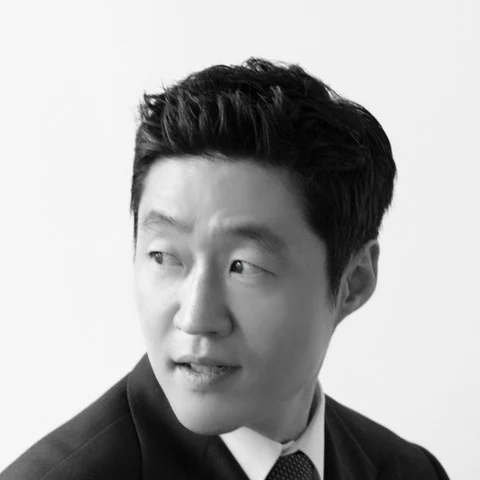
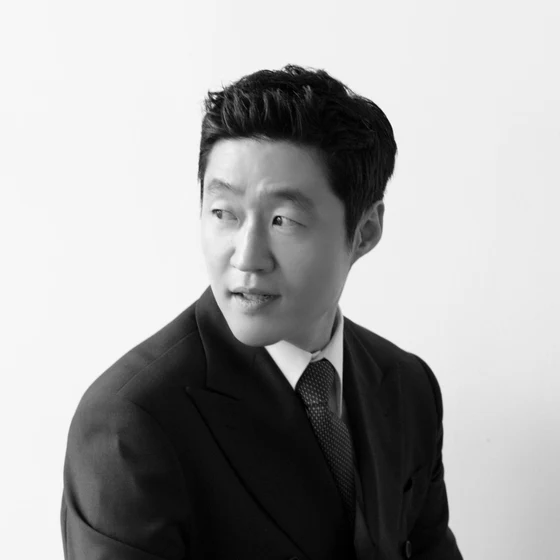
디렉터 페이지 시안: 디렉터를 맨 앞으로(원형 사진·이름·25만원 면제), 순서 재구성·길이 축소
Claude-Session: https://claude.ai/code/session_01AK1nvLUVWxd12Ns9kLYVVR

diff --git a/d/index.html b/d/index.html
@@ -12,6 +12,18 @@
 <link rel="stylesheet" href="https://cdn.jsdelivr.net/gh/orioncactus/pretendard@v1.3.9/dist/web/variable/pretendardvariable-dynamic-subset.min.css">
 <link rel="stylesheet" href="/go/go.css">
 <style>
+.dh{padding-top:26px;text-align:center}
+.dh-p{width:176px;height:176px;margin:0 auto 22px;position:relative}
+.dh-p .dc-m{width:176px;height:176px;font-size:64px}
+.dh-p img{width:176px;height:176px;border-radius:50%;object-fit:cover;display:block;box-shadow:0 0 0 3px var(--paper),0 0 0 5px #C29A4A,0 26px 44px -22px rgba(21,23,28,.55)}
+.dh-n{margin-top:10px;display:flex;justify-content:center;align-items:baseline;gap:10px}
+.dh-n b{font-size:34px;font-weight:800;letter-spacing:-.03em}
+.dh-n span{font-size:15px;font-weight:700;color:var(--gold)}
+.dh h1{margin-top:14px;font-size:24px;line-height:1.4}
+.dh .w-bar{margin-top:24px}
+.dcard{margin-top:26px!important;padding-top:0!important}
+.dcard .dx{margin-top:0;padding-top:22px;box-shadow:0 20px 40px -26px rgba(21,23,28,.4);border:1px solid var(--line)}
+.dcard .dx blockquote{margin-top:16px;padding-top:18px}
 .dx{margin-top:30px;padding:30px 24px 22px;border-radius:24px;background:linear-gradient(180deg,#FBF9F4,#F1ECE0);color:var(--ink);text-align:center;box-shadow:0 24px 44px -22px rgba(0,0,0,.8)}
 .dx-p{position:relative;width:112px;height:112px;margin:0 auto}
 .dx-p .dc-m{width:112px;height:112px;font-size:44px}
@@ -68,34 +80,25 @@ body:not(.open) #coachBtn{display:none}body.open #chBtn2{display:none}
 <div class="wrap">
   <div class="top"><b>MAKESBETTER</b><span>가입비 없음</span></div>
   <main id="A" class="w">
-    <!-- 대표 카드 (상품 머리) -->
-    <section class="w-hero">
-      <div class="w-ph rvl"><img src="/go/img/ph-ask.webp" alt=""><span class="w-bd"><span data-d="name">이종호</span> 디렉터의 초대</span></div>
+    <section class="w-hero dh">
+      <div class="dh-p rvl" data-d="photo"><span class="dc-m" data-d="mono">이</span></div>
       <div class="kick rvl">MAKESBETTER DIRECTOR</div>
-      <h1 class="rvl"><span data-d="name">이종호</span> <span data-d="role">대표 디렉터</span>와<br>1:1 금융 코칭 2시간<br>+ 선물 3가지</h1>
+      <p class="dh-n rvl"><b data-d="name">이종호</b><span data-d="role">대표 디렉터</span></p>
+      <h1 class="rvl">1:1 금융 코칭 2시간<br>+ 선물 3가지</h1>
+      <div class="w-bar rvl"><span>1:1 코칭 2시간</span><b class="fee"><s>25만원</s><i>면제</i></b></div>
       <ul class="w-st rvl">
         <li><b>946<small>건</small></b><span>고객 후기</span></li>
         <li><b><i id="cnt2">1,347</i><small>명</small></b><span>현금흐름 진단</span></li>
         <li><b>100<small>장</small></b><span>코칭권 한정</span></li>
       </ul>
-      <div class="w-bar rvl"><span>1:1 코칭 2시간</span><b class="fee"><s>25만원</s><i>면제</i></b></div>
     </section>
 
-    <!-- 편지 -->
-    <section class="w-sec w-letter">
-      <p class="w-q rvl">“</p>
-      <h2 class="rvl">우리에게 매직은<br>필요 없습니다.</h2>
-      <p class="l-who rvl">당신의 <em>답변</em>, 그걸로 충분합니다.</p>
-      <p class="l-why rvl">No magic. Just common sense.<br>현실의 언어로, 당신의 돈 이야기를 함께 봅니다.</p>
-    </section>
-
-    <!-- 공감 -->
-    <section class="w-sec c-q"><div class="q-bg" aria-hidden="true"></div>
-      <p class="q-k rvl">혹시 이런 생각, 해 본 적 있나요?</p>
-      <h2 class="rvl">내가 일을 멈추면,<br>돈도 같이 <em>멈출까요?</em></h2>
-      <p class="q-s rvl">월급날은 한 달에 한 번인데,<br>돈 걱정은 매일이니까요.</p>
-      <div class="qa rvl" id="qa"><button type="button" data-a="1">네, 멈춰요</button><button type="button" data-a="2">조금은 들어와요</button></div>
-      <p class="qa-r" id="qaR" aria-live="polite"></p>
+    <section class="w-sec dcard">
+      <article class="dx rvl">
+        <ul class="dx-c" data-d="career"><li class="dx-todo">경력 한 줄 자리 (받으면 교체)</li><li class="dx-todo">전문 분야 자리</li></ul>
+        <blockquote data-d="quote"></blockquote>
+        <a data-d="rv" href="https://mbkr.my/review" target="_blank" rel="noopener"><span data-d="rvwho"></span>후기 읽기 →</a>
+      </article>
     </section>
 
     <section class="w-sec w-for">
@@ -111,22 +114,6 @@ body:not(.open) #coachBtn{display:none}body.open #chBtn2{display:none}
       </ul>
     </section>
 
-    <!-- POINT 01 사람 -->
-    <section class="w-sec w-dark c-c">
-      <span class="w-pt gold rvl">POINT 01 · 사람</span>
-      <h2 class="rvl">이 코칭의 가장 큰 선물은<br><em>사람</em>이에요.</h2>
-      <p class="c-s rvl"><b><span data-d="name">이종호</span> <span data-d="role">대표 디렉터</span></b>가<br>2시간 동안 <b>당신 한 사람</b>의 돈만 봅니다.</p>
-      <article class="dx rvl">
-        <div class="dx-p"><span class="dc-m" data-d="mono">이</span><i class="dx-todo">사진 자리</i></div>
-        <b class="dx-n"><span data-d="name">이종호</span></b>
-        <small class="dx-r"><span data-d="role">대표 디렉터</span> · MAKESBETTER</small>
-        <ul class="dx-c" data-d="career"><li class="dx-todo">경력 한 줄 자리 (받으면 교체)</li><li class="dx-todo">전문 분야 자리</li><li class="dx-todo">함께한 고객 수·기간 자리</li></ul>
-        <blockquote data-d="quote">“대표님을 만나지 않았다면 금전적으로 빚 걱정, 미래 걱정이 없는 저는 없었을 거 같았습니다. 늘 감사합니다!”</blockquote>
-        <a data-d="rv" href="https://mbkr.my/review/?bmode=view&idx=174960813" target="_blank" rel="noopener"><span data-d="rvwho">5년째 함께한 고객</span>후기 읽기 →</a>
-      </article>
-    </section>
-
-    <!-- POINT 02 방법 -->
     <section class="w-sec w-how">
       <span class="w-pt rvl">POINT 02 · 방법</span>
       <h2 class="rvl">2시간이면<br>내 돈의 <mark>지도</mark>가 그려져요.</h2>
@@ -141,45 +128,6 @@ body:not(.open) #coachBtn{display:none}body.open #chBtn2{display:none}
       </div>
     </section>
 
-    <!-- POINT 03 증거 -->
-    <section class="w-sec c-p">
-      <span class="w-pt rvl">POINT 03 · 코칭 이후</span>
-      <h2 class="rvl">코칭이 끝나도,<br><mark>매달 함께</mark> 관리해요.</h2>
-      <p class="a-s rvl">흐름을 잡은 다음 단계는 일을 쉬어도 매달 들어오는 돈, 월배당이에요. 메이크스베러가 실제 계좌로 먼저 보여 드려요.</p>
-      <div class="pf rvl">
-        <small>메이크스베러가 매달 공개하는 실제 계좌 · 2026년 10월<br>계좌 4개 합산 · 실수령액 기준</small>
-        <div class="pf-n"><b id="amt" data-v="3643944">3,643,944</b><span>원</span></div>
-        <div class="pf-m"><div><i style="height:100%"></i><span>7월</span></div><div><i style="height:88%"></i><span>8월</span></div><div><i style="height:89%"></i><span>9월</span></div><div class="on"><i style="height:89.5%"></i><span>10월</span></div></div>
-        <p>포트폴리오 수익률이 <b>−4.8%</b>였던 달에도, 입금은 9월보다 <b>15,344원</b> 늘었어요.</p>
-      </div>
-      <div class="how rvl">
-        <div class="how-h"><span>어떻게요?</span><b>11개 ETF를 4개 역할로 나눈 포트폴리오, Better.7</b></div>
-        <div class="b7-bar"><i style="flex:50;background:#15171C"></i><i style="flex:15;background:#B08A3E"></i><i style="flex:10;background:#8C8577"></i><i style="flex:25;background:#D9D3C5"></i></div>
-        <ul class="b7-r">
-          <li><em style="background:#15171C"></em><div><b>Income Core</b><span>매달 분배금을 만드는 역할</span></div><strong>50%</strong></li>
-          <li><em style="background:#B08A3E"></em><div><b>Growth Engine</b><span>AI·로봇으로 성장을 더하는 역할</span></div><strong>15%</strong></li>
-          <li><em style="background:#8C8577"></em><div><b>Defense</b><span>금·장기채로 흔들림을 줄이는 역할</span></div><strong>10%</strong></li>
-          <li><em style="background:#D9D3C5"></em><div><b>Cash</b><span>단기채·MMF로 기회를 기다리는 역할</span></div><strong>25%</strong></li>
-        </ul>
-        <p class="how-l"><svg viewBox="0 0 24 24" width="14" height="14" fill="none" stroke="currentColor" stroke-width="2.2" stroke-linecap="round"><rect x="5" y="11" width="14" height="10" rx="2"/><path d="M8 11V8a4 4 0 0 1 8 0v3"/></svg>11개 종목과 이번 달 방향은 코칭 이후 채널에서 함께 봐요</p>
-      </div>
-      <p class="dis rvl">실제 사례를 그대로 공개한 자료이며, 수익을 보장하거나 투자를 권유하는 내용이 아니에요. 분배금은 달마다 달라지고, 투자 원금은 손실이 날 수 있어요.</p>
-      <p class="c-t2 rvl">코칭 이후, 이렇게 관리받아요</p>
-      <a class="pl rvl" href="https://mbkr.my/report" target="_blank" rel="noopener"><img src="/go/img/report.webp" alt=""><div><b>월배당 리포트</b><span>매달 실제 계좌를 그대로 공개</span></div><i>보기</i></a>
-      <a class="pl rvl" href="https://calc.makesbetter.co.kr/studio" target="_blank" rel="noopener"><img src="/go/img/studio.webp" alt=""><div><b>MAKESBETTER Studio</b><span>24개 지표로 정한 이번 달 매수 방향</span></div><i>보기</i></a>
-      <a class="pl rvl" href="https://report.makesbetter.co.kr/check" target="_blank" rel="noopener"><span class="pl-ic">✓</span><div><b>내 포트폴리오 무료 점검</b><span>배당 화면 캡처만 보내면 1:1 분석</span></div><i>보기</i></a>
-      <a class="btn mid rvl" href="#gifts">여기까지 보고 바로 선물 받기</a>
-    </section>
-
-    <!-- 묻고 답하기 + 후기 -->
-    <section class="w-sec w-dark c-c">
-      <span class="w-pt gold rvl">REAL REVIEW</span>
-      <h2 class="rvl">코칭에서 가장 많이 묻는 것,<br>그리고 <em>먼저 받은 분들의 이야기</em></h2>
-      <div class="nds rvl"><details class="nd" open><summary><span>Q1</span><b class="ndq">“어디서부터 시작하죠?”</b></summary><div class="nd-b"><p class="nd-a"><b>디렉터의 답</b>소득·고정지출·변동지출·저축, 네 칸으로 지금 내 돈의 흐름부터 같이 그려요. 시작점이 보이면 다음 한 걸음이 정해져요.</p><a class="nd-r" href="https://mbkr.my/review/?bmode=view&idx=171849709" target="_blank" rel="noopener"><em>같은 고민을 했던 분</em>“어디서부터 어떻게 시작해야 할지 몰라서 맨땅에 헤딩하는 기분이었어요.”<span>후기 전체 읽기 →</span></a></div></details><details class="nd"><summary><span>Q2</span><b class="ndq">“돈이 왜 안 모일까요?”</b></summary><div class="nd-b"><p class="nd-a"><b>디렉터의 답</b>고정지출·생활비·저축으로 통장을 나누고, 모으는 순서를 정해요. 아끼라는 말 대신 구조를 바꿔요.</p><a class="nd-r" href="https://mbkr.my/review/?bmode=view&idx=175530941" target="_blank" rel="noopener"><em>같은 고민을 했던 분</em>“버는 대로 쓰던 제가 하나하나 나눠서 돈을 모으는 습관을 만들게 됐어요.”<span>후기 전체 읽기 →</span></a></div></details><details class="nd"><summary><span>Q3</span><b class="ndq">“예·적금만 해도 될까요?”</b></summary><div class="nd-b"><p class="nd-a"><b>디렉터의 답</b>예금·투자·연금·보험, 가진 자산을 한눈에 놓고 평가해요. 그다음 나눠서 모으는 방법을 내 상황에 맞게 차근차근 경험해요.</p><a class="nd-r" href="https://mbkr.my/review/?bmode=view&idx=175279693" target="_blank" rel="noopener"><em>같은 고민을 했던 분</em>“예·적금밖에 모르던 저에게 새로운 세계가 열린 것 같았어요.”<span>후기 전체 읽기 →</span></a></div></details><details class="nd"><summary><span>Q4</span><b class="ndq">“빚이 있는데 투자해도 될까요?”</b></summary><div class="nd-b"><p class="nd-a"><b>디렉터의 답</b>현금흐름부터 잡아요. 갚는 것과 모으는 것의 순서를 함께 정하고, 여유가 생긴 만큼만 다음 단계로 가요.</p><a class="nd-r" href="https://mbkr.my/review/?bmode=view&idx=174960813" target="_blank" rel="noopener"><em>같은 고민을 했던 분</em>“현금 흐름부터 잡아서 매달 모으는 돈을 늘렸고, 그렇게 투자금이 생겼어요.”<span>후기 전체 읽기 →</span></a></div></details><details class="nd"><summary><span>Q5</span><b class="ndq">“투자 손실이 겁나요”</b></summary><div class="nd-b"><p class="nd-a"><b>디렉터의 답</b>먼저 권하지 않아요. 내가 감당할 수 있는 범위와 나만의 기준부터 세우고, 흔들릴 때 물어볼 사람이 되어 드려요.</p><a class="nd-r" href="https://mbkr.my/review/?bmode=view&idx=173082766" target="_blank" rel="noopener"><em>같은 고민을 했던 분</em>“손해를 본 경험 때문에 돈을 꽁꽁 묶어 두기만 했던 저에게 길잡이가 되어 주셨어요.”<span>후기 전체 읽기 →</span></a></div></details><details class="nd"><summary><span>Q6</span><b class="ndq">“노후 준비, 괜찮을까요?”</b></summary><div class="nd-b"><p class="nd-a"><b>디렉터의 답</b>연금과 보유 자산을 점검하고, 일을 쉬어도 매달 들어오는 흐름으로 바꾸는 길을 같이 찾아요.</p><a class="nd-r" href="https://mbkr.my/review/?bmode=view&idx=171831872" target="_blank" rel="noopener"><em>같은 고민을 했던 분</em>“막연히 괜찮겠지 했는데, 노후를 처음으로 현실적으로 생각해 보게 됐어요.”<span>후기 전체 읽기 →</span></a></div></details></div>
-      <a class="more rvl" href="https://mbkr.my/review" target="_blank" rel="noopener">후기 946건 모두 보기 →</a>
-    </section>
-
-    <!-- 리워드 구성 -->
     <section class="w-sec c-g" id="gifts">
       <span class="w-pt rvl">지금 받을 수 있는 것</span>
       <h2 class="rvl" id="giftH">채널을 추가하면<br>선물 4가지가 열려요.</h2>
@@ -197,7 +145,31 @@ body:not(.open) #coachBtn{display:none}body.open #chBtn2{display:none}
       <a class="w-rw best rvl" data-d="coach" href="/coaching/?d=이종호"><span class="w-rn">가장 큰 선물</span><b><span data-d="name">이종호</span> 디렉터 1:1 코칭 2시간</b><p>현금흐름 점검 · 보유자산 평가 · 돈 모으는 툴</p><div class="w-rf"><span class="lk" aria-hidden="true"><svg viewBox="0 0 24 24" fill="none" stroke="currentColor" stroke-width="2.2" stroke-linecap="round"><rect x="5" y="11" width="14" height="10" rx="2"/><path class="sh" d="M8 11V8a4 4 0 0 1 8 0v3"/></svg>채널 추가 후 열려요</span><span>신청하면 디렉터가 직접 연락</span><em>신청하기</em></div></a>
     </section>
 
-    <!-- 진행 순서 · 자주 묻는 질문 -->
+    <section class="w-sec c-p">
+      <span class="w-pt rvl">POINT 03 · 코칭 이후</span>
+      <h2 class="rvl">코칭이 끝나도,<br><mark>매달 함께</mark> 관리해요.</h2>
+      <p class="a-s rvl">흐름을 잡은 다음 단계는 일을 쉬어도 매달 들어오는 돈, 월배당이에요. 메이크스베러가 실제 계좌로 먼저 보여 드려요.</p>
+      <div class="pf rvl">
+        <small>메이크스베러가 매달 공개하는 실제 계좌 · 2026년 10월<br>계좌 4개 합산 · 실수령액 기준</small>
+        <div class="pf-n"><b id="amt" data-v="3643944">3,643,944</b><span>원</span></div>
+        <div class="pf-m"><div><i style="height:100%"></i><span>7월</span></div><div><i style="height:88%"></i><span>8월</span></div><div><i style="height:89%"></i><span>9월</span></div><div class="on"><i style="height:89.5%"></i><span>10월</span></div></div>
+        <p>포트폴리오 수익률이 <b>−4.8%</b>였던 달에도, 입금은 9월보다 <b>15,344원</b> 늘었어요.</p>
+      </div>
+      <p class="dis rvl">실제 사례를 그대로 공개한 자료이며, 수익을 보장하거나 투자를 권유하는 내용이 아니에요. 분배금은 달마다 달라지고, 투자 원금은 손실이 날 수 있어요.</p>
+      <p class="c-t2 rvl">코칭 이후, 이렇게 관리받아요</p>
+      <a class="pl rvl" href="https://mbkr.my/report" target="_blank" rel="noopener"><img src="/go/img/report.webp" alt=""><div><b>월배당 리포트</b><span>매달 실제 계좌를 그대로 공개</span></div><i>보기</i></a>
+      <a class="pl rvl" href="https://calc.makesbetter.co.kr/studio" target="_blank" rel="noopener"><img src="/go/img/studio.webp" alt=""><div><b>MAKESBETTER Studio</b><span>24개 지표로 정한 이번 달 매수 방향</span></div><i>보기</i></a>
+      <a class="pl rvl" href="https://report.makesbetter.co.kr/check" target="_blank" rel="noopener"><span class="pl-ic">✓</span><div><b>내 포트폴리오 무료 점검</b><span>배당 화면 캡처만 보내면 1:1 분석</span></div><i>보기</i></a>
+      <a class="btn mid rvl" href="#gifts">여기까지 보고 바로 선물 받기</a>
+    </section>
+
+    <section class="w-sec w-dark c-c">
+      <span class="w-pt gold rvl">REAL REVIEW</span>
+      <h2 class="rvl">코칭에서 가장 많이 묻는 것,<br>그리고 <em>먼저 받은 분들의 이야기</em></h2>
+      <div class="nds rvl"><details class="nd" open><summary><span>Q1</span><b class="ndq">“어디서부터 시작하죠?”</b></summary><div class="nd-b"><p class="nd-a"><b>디렉터의 답</b>소득·고정지출·변동지출·저축, 네 칸으로 지금 내 돈의 흐름부터 같이 그려요. 시작점이 보이면 다음 한 걸음이 정해져요.</p><a class="nd-r" href="https://mbkr.my/review/?bmode=view&idx=171849709" target="_blank" rel="noopener"><em>같은 고민을 했던 분</em>“어디서부터 어떻게 시작해야 할지 몰라서 맨땅에 헤딩하는 기분이었어요.”<span>후기 전체 읽기 →</span></a></div></details><details class="nd"><summary><span>Q2</span><b class="ndq">“돈이 왜 안 모일까요?”</b></summary><div class="nd-b"><p class="nd-a"><b>디렉터의 답</b>고정지출·생활비·저축으로 통장을 나누고, 모으는 순서를 정해요. 아끼라는 말 대신 구조를 바꿔요.</p><a class="nd-r" href="https://mbkr.my/review/?bmode=view&idx=175530941" target="_blank" rel="noopener"><em>같은 고민을 했던 분</em>“버는 대로 쓰던 제가 하나하나 나눠서 돈을 모으는 습관을 만들게 됐어요.”<span>후기 전체 읽기 →</span></a></div></details><details class="nd"><summary><span>Q3</span><b class="ndq">“예·적금만 해도 될까요?”</b></summary><div class="nd-b"><p class="nd-a"><b>디렉터의 답</b>예금·투자·연금·보험, 가진 자산을 한눈에 놓고 평가해요. 그다음 나눠서 모으는 방법을 내 상황에 맞게 차근차근 경험해요.</p><a class="nd-r" href="https://mbkr.my/review/?bmode=view&idx=175279693" target="_blank" rel="noopener"><em>같은 고민을 했던 분</em>“예·적금밖에 모르던 저에게 새로운 세계가 열린 것 같았어요.”<span>후기 전체 읽기 →</span></a></div></details><details class="nd"><summary><span>Q4</span><b class="ndq">“빚이 있는데 투자해도 될까요?”</b></summary><div class="nd-b"><p class="nd-a"><b>디렉터의 답</b>현금흐름부터 잡아요. 갚는 것과 모으는 것의 순서를 함께 정하고, 여유가 생긴 만큼만 다음 단계로 가요.</p><a class="nd-r" href="https://mbkr.my/review/?bmode=view&idx=174960813" target="_blank" rel="noopener"><em>같은 고민을 했던 분</em>“현금 흐름부터 잡아서 매달 모으는 돈을 늘렸고, 그렇게 투자금이 생겼어요.”<span>후기 전체 읽기 →</span></a></div></details><details class="nd"><summary><span>Q5</span><b class="ndq">“투자 손실이 겁나요”</b></summary><div class="nd-b"><p class="nd-a"><b>디렉터의 답</b>먼저 권하지 않아요. 내가 감당할 수 있는 범위와 나만의 기준부터 세우고, 흔들릴 때 물어볼 사람이 되어 드려요.</p><a class="nd-r" href="https://mbkr.my/review/?bmode=view&idx=173082766" target="_blank" rel="noopener"><em>같은 고민을 했던 분</em>“손해를 본 경험 때문에 돈을 꽁꽁 묶어 두기만 했던 저에게 길잡이가 되어 주셨어요.”<span>후기 전체 읽기 →</span></a></div></details><details class="nd"><summary><span>Q6</span><b class="ndq">“노후 준비, 괜찮을까요?”</b></summary><div class="nd-b"><p class="nd-a"><b>디렉터의 답</b>연금과 보유 자산을 점검하고, 일을 쉬어도 매달 들어오는 흐름으로 바꾸는 길을 같이 찾아요.</p><a class="nd-r" href="https://mbkr.my/review/?bmode=view&idx=171831872" target="_blank" rel="noopener"><em>같은 고민을 했던 분</em>“막연히 괜찮겠지 했는데, 노후를 처음으로 현실적으로 생각해 보게 됐어요.”<span>후기 전체 읽기 →</span></a></div></details></div>
+      <a class="more rvl" href="https://mbkr.my/review" target="_blank" rel="noopener">후기 946건 모두 보기 →</a>
+    </section>
+
     <section class="w-sec w-flow">
       <span class="w-pt rvl">받는 순서</span>
       <ol class="w-tl">
@@ -208,8 +180,6 @@ body:not(.open) #coachBtn{display:none}body.open #chBtn2{display:none}
       </ol>
       <a class="btn rvl" data-d="coach" href="/coaching/?d=이종호" style="margin-top:26px">코칭 신청하기</a>
     </section>
-
-    
 
     <section class="w-sec w-end">
       <span class="w-pt rvl">자주 묻는 질문</span>
@@ -242,7 +212,7 @@ body:not(.open) #coachBtn{display:none}body.open #chBtn2{display:none}
   function all(s,f){[].forEach.call(document.querySelectorAll(s),f)}
   all('[data-d=name]',function(e){e.textContent=d.name});all('[data-d=role]',function(e){e.textContent=d.role});
   all('[data-d=mono]',function(e){e.textContent=d.name.charAt(0)});all('[data-d=quote]',function(e){e.textContent=d.quote});
-  if(d.photo){all('.dx-p',function(e){e.className='dx-p dxph';e.innerHTML='<img src="'+d.photo+'" alt="'+d.name+' '+d.role+'">'})}
+  if(d.photo){all('[data-d=photo]',function(e){e.innerHTML='<img src="'+d.photo+'" alt="'+d.name+' '+d.role+'">'})}
   if(d.career){all('[data-d=career]',function(e){e.innerHTML=d.career.map(function(c){return '<li>'+c+'</li>'}).join('')+(d.motto?'<li class="dx-m">“'+d.motto+'”</li>':'')})}
   all('[data-d=rvwho]',function(e){e.textContent=d.who});all('[data-d=rv]',function(e){e.href=d.rv?'https://mbkr.my/review/?bmode=view&idx='+d.rv:'https://mbkr.my/review'});
   all('[data-d=coach]',function(e){e.href='/coaching/?d='+encodeURIComponent(d.name)});
@@ -274,8 +244,7 @@ body:not(.open) #coachBtn{display:none}body.open #chBtn2{display:none}
   var io=('IntersectionObserver' in window)?new IntersectionObserver(function(es){es.forEach(function(e){if(e.isIntersecting){e.target.classList.add('in');io.unobserve(e.target)}})},{threshold:.12}):null;
   all('.rvl',function(el){var n=0,pv=el.previousElementSibling;while(pv&&pv.classList.contains('rvl')&&n<5){n++;pv=pv.previousElementSibling}el.style.transitionDelay=(n*110)+'ms';if(io)io.observe(el);else el.classList.add('in')});
   var pg=document.getElementById('prog').firstChild;window.addEventListener('scroll',function(){var h=document.documentElement.scrollHeight-innerHeight;pg.style.transform='scaleX('+Math.max(0,Math.min(1,scrollY/h))+')'},{passive:true});
-  document.getElementById('qa').addEventListener('click',function(e){var b=e.target.closest('button');if(!b)return;all('#qa button',function(x){x.classList.toggle('on',x===b)});var r=document.getElementById('qaR');r.textContent=b.getAttribute('data-a')==='1'?'대부분 그래요. 그래서 흐름부터 같이 봅니다.':'이미 흐름이 있으시네요. 더 단단하게 만드는 법을 함께 봐요.';r.classList.add('in')});
-  try{var x=new XMLHttpRequest();x.open('GET','https://abacus.jasoncameron.dev/get/mbkr.my/cashflow-basic');x.timeout=4000;x.onload=function(){try{var v=JSON.parse(x.responseText).value;if(v>=1347)document.getElementById('cnt2').textContent=v.toLocaleString('ko-KR')}catch(e){}};x.send()}catch(e){}
+    try{var x=new XMLHttpRequest();x.open('GET','https://abacus.jasoncameron.dev/get/mbkr.my/cashflow-basic');x.timeout=4000;x.onload=function(){try{var v=JSON.parse(x.responseText).value;if(v>=1347)document.getElementById('cnt2').textContent=v.toLocaleString('ko-KR')}catch(e){}};x.send()}catch(e){}
 })();
 </script>
 </body>
